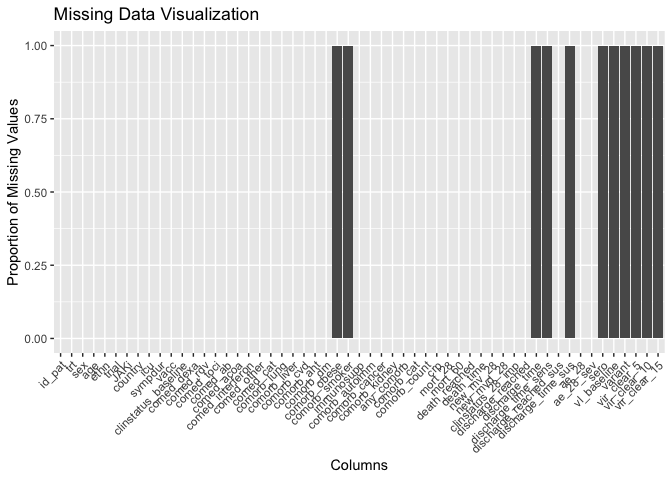
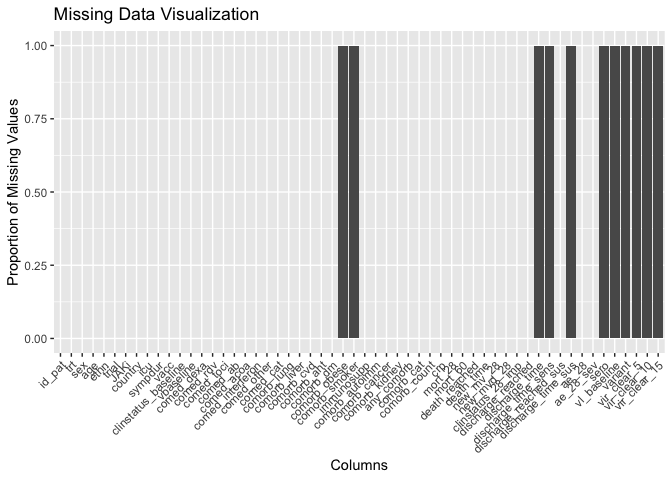
updated Murugesan: vbaseline

diff --git a/Murugesan.md b/Murugesan.md
@@ -92,6 +92,10 @@ df$clinstatus_5 <- factor(df$clinstat_day_5, levels = 1:6)
 df$clinstatus_7 <- factor(df$clinstat_day_7, levels = 1:6)
 df$clinstatus_discharge <- factor(df$clinstat_day_discharge, levels = 1:6)
 
+df <- df %>% 
+  mutate(vbaseline = case_when(clinstatus_baseline == "2" | clinstatus_baseline == "3" ~ 0,
+                                clinstatus_baseline == "4" | clinstatus_baseline == "5" ~ 1))
+
 # Co-medication at baseline
 df <- df %>% 
   mutate(comed_dexa = case_when(grepl("D", `Concomitant therapy`) | grepl("M", `Concomitant therapy`) ~ 1,
@@ -293,7 +297,7 @@ df <- df %>%
   select(id_pat, trt, sex, age, ethn, trial, JAKi, 
          country, icu, sympdur, 
          vacc, 
-         clinstatus_baseline,
+         clinstatus_baseline, vbaseline,
          comed_dexa, comed_rdv, comed_toci, comed_ab, comed_acoa, comed_interferon, comed_other,
          comed_cat,
          comorb_lung, comorb_liver, comorb_cvd, comorb_aht, comorb_dm, comorb_obese, comorb_smoker, immunosupp,
@@ -947,7 +951,7 @@ Discussion points:
 #   kable_styling(bootstrap_options = "striped", full_width = FALSE)
 ```
 Discussion points
-1. No events
+1. All discharged by day 28 and exact day of discharge NA
 
 # (vii) Viral clearance up to day 5, day 10, and day 15
 
